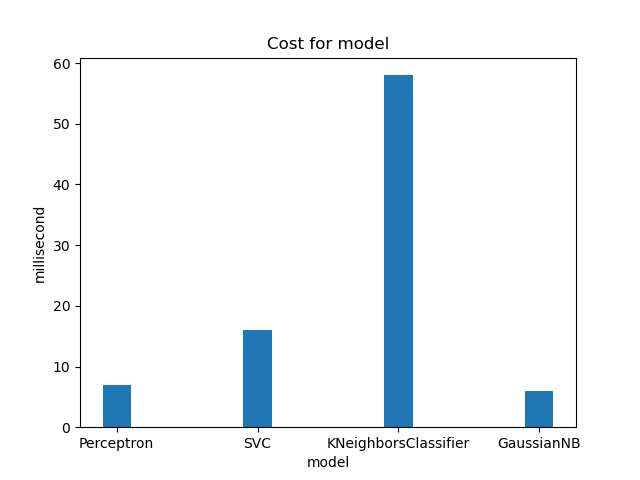
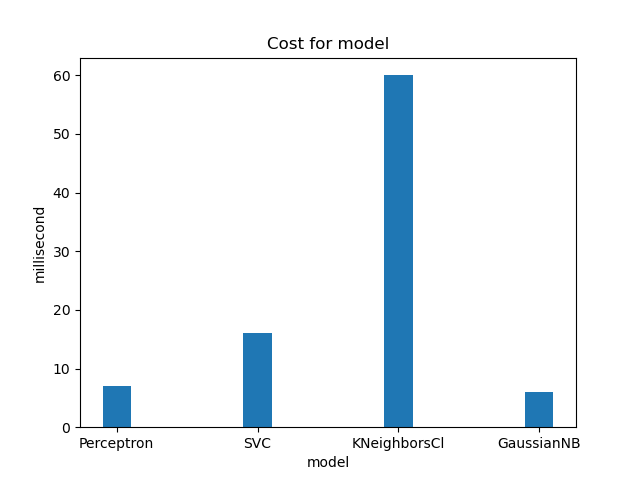
code improvement

diff --git a/banknotes0.py b/banknotes0.py
@@ -116,19 +116,19 @@ for x in range(4):
             incorrect += 1
 
     # Print results
-    accurance = 100 * correct / total
+    accuracy = 100 * correct / total
     cost = int(1000 * (time.process_time() - t))
 
-    res[x+1][0] = type(model).__name__
+    res[x+1][0] = (type(model).__name__)[:12]
     res[x+1][1] = correct
     res[x+1][2] = incorrect
-    res[x+1][3] = f"{accurance:.2f}"
+    res[x+1][3] = f"{accuracy:.2f}"
     res[x+1][4] = cost
 
     # Res for graphs
     graf_res[0][x] = correct
     graf_res[1][x] = incorrect
-    graf_res[2][x] = accurance
+    graf_res[2][x] = accuracy
     graf_res[3][x] = cost
 
 
@@ -137,6 +137,7 @@ print (tabulate(res[1:], headers=res[0]))
 nomi_graf = [x[0] for x in res[1:]]
 
 x_pos = np.arange(len(nomi_graf))
+
 plt.bar(x_pos, graf_res[0], width=0.2, align='center', label='correct')
 plt.xticks(x_pos, nomi_graf)
 plt.ylabel('n answers')
